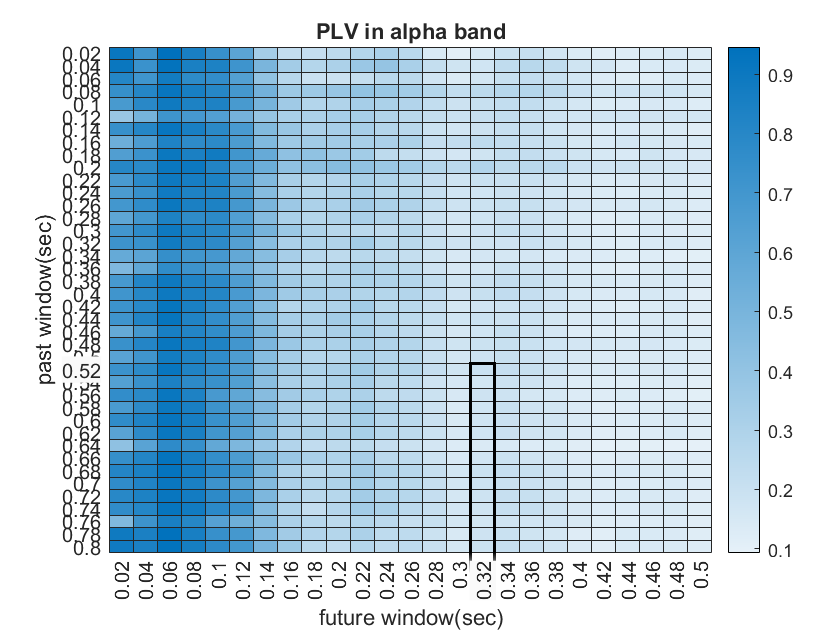
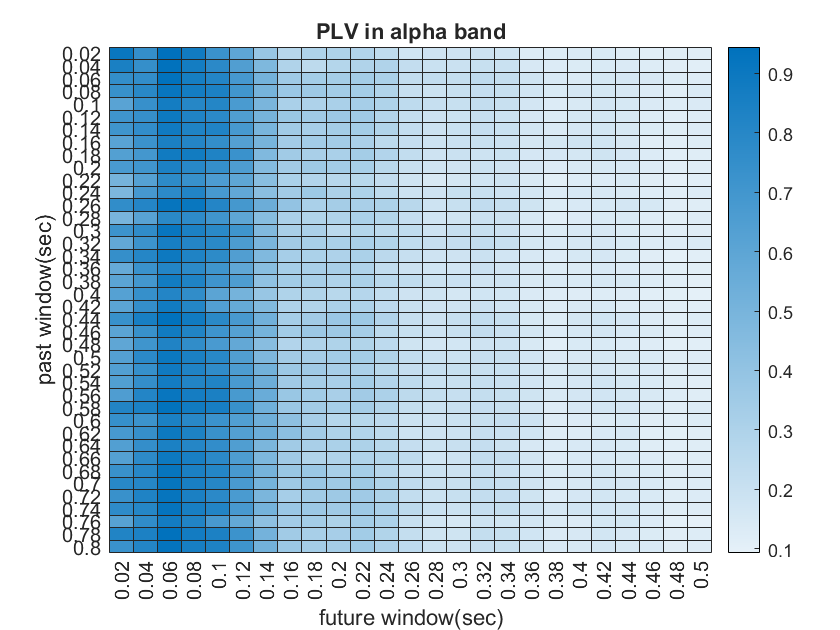
gradient approach predict peak

diff --git a/phase_error.m b/phase_error.m
@@ -230,4 +230,40 @@ h = heatmap(xvalues,yvalues,PLVmap);
 h.Title = 'PLV in alpha band';
 h.XLabel = 'future window(sec)';
 h.YLabel = 'ar window(sec)';     
+%% gradient approach to find peaks
+
+figure;
+% predicion is the predicted target location(unit: sample)
+
+for i=1:n_trial
+    %use the peak nearest to 0.8s as now time
+    now_time=0.8;
+    pastEEG=true_phase(i,1:now_time*samplerate);
+    pastEEG=movmean(pastEEG,9);
+    targeted_phase=find_target_phase(pastEEG);
+    k = find(targeted_phase==2,1,'last');
+    now_time=k/samplerate;
+    
+    pastEEG=true_phase(i,1:now_time*samplerate);
+    pastEEG=movmean(pastEEG,9);
+    futureEEG=true_phase(i,now_time*samplerate+1:end);
+    past_time_axis=(1:now_time*samplerate)/samplerate-now_time;
+    future_time_axis=(now_time*samplerate+1:window)/samplerate-now_time;
+
+    subplot(3,3,i);
+    plot(past_time_axis,pastEEG,'b');
+    hold on;
+    plot(future_time_axis,futureEEG,'r');
+    targeted_phase=find_target_phase(pastEEG);
+    scatter(past_time_axis(targeted_phase==2),pastEEG(targeted_phase==2),'green');
+    scatter(0,pastEEG(end),'green');
+    [prediction,target_intervals] = predict_targets(pastEEG',2,0.5*samplerate,3,true);
+    fprintf('trial %i\n',i);
+    disp(target_intervals);
+    disp('-----------------------------');
+    plot(future_time_axis(prediction==true),futureEEG(prediction==true),'*','MarkerEdgeColor','black');
+    xline(0,'k--',{'now'});
+    hold off;
+end
+
         

diff --git a/predict_targets.m b/predict_targets.m
@@ -1,15 +1,24 @@
-function [prediction,target_intervals] = predict_targets(epochs,target_val,predict_len,ord)
+function [prediction,target_intervals] = predict_targets(epochs,target_val,predict_len,ord,varargin)
 %FIND_PEAK_INTERVAL Summary of this function goes here
 %   Detailed explanation goes here
 %   target_val can be 1, 2, 3, 4, indicating 0, 90, 180, 270 deg
 %   respectively
-%   epochs: time x channel
+%   epochs: time x trial
+include_last=false;
+if ~isempty(varargin)
+    include_last=varargin{1};
+end
 targets=nan(size(epochs));
 for i=1:size(targets,2)
     targets(:,i)=find_target_phase(epochs(:,i).');
 end
 
 targets=targets==target_val;
+if include_last
+    targets(end,:)=true;
+end
+
+
 %chnnel number
 M=size(epochs,2);
 prediction=false(predict_len,M);
